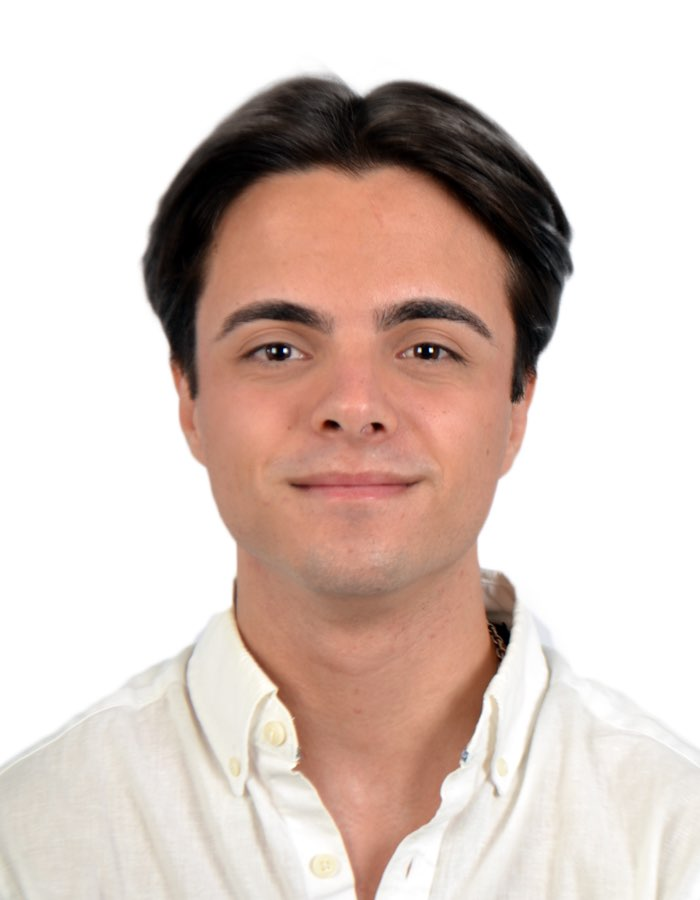
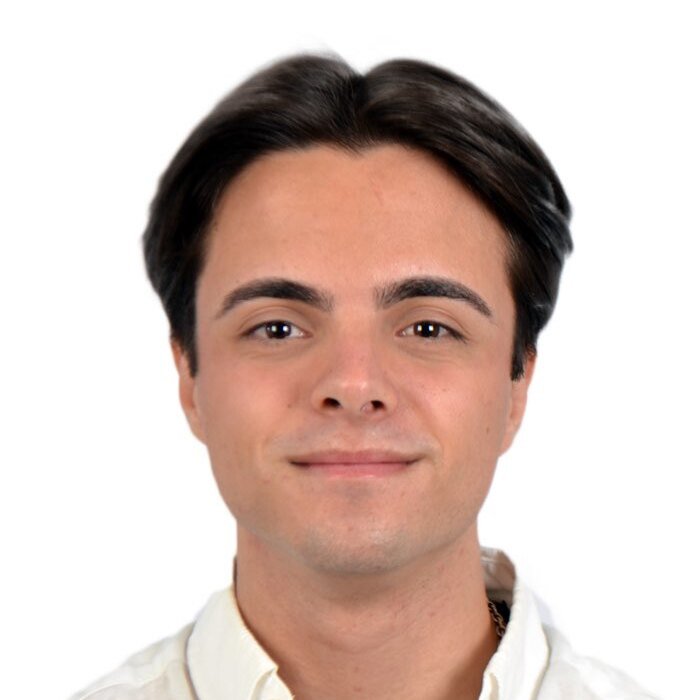
edits

diff --git a/index.html b/index.html
@@ -39,14 +39,14 @@
 					<section class="feature left">
 						<a href="weather.html" class="image"><img src="images/rain-drops1.webp" alt="" /></a>
 						<div class="content">
-							<h3>Weather Data Analysis</h3>
+							<h3><a href="weather.html">Weather Data Analysis</a></h3>
 							<p>A deeper dive into the decisions we made when processing the weather data.</p>
 						</div>
 					</section>
 					<section class="feature right">
 						<a href="movies.html" class="image"><img src="images/et.jpeg" alt="" /></a>
 						<div class="content">
-							<h3>Movie Data Analysis</h3>
+							<h3><a href="movies.html">Movie Data Analysis</a></h3>
 							<p>An explanation for how we chose to process and analyze the movie data.</p>
 						</div>
 					</section>
@@ -78,7 +78,7 @@
 							<div class="column-image">
 								<div class="team">
 									<div class="team-image">
-										<img src="images/square.png" alt="Team Image">
+										<img src="team_photos/alex_photo.jpeg" alt="Team Image">
 									</div>
 									<div class="team-content">
 										<h4>Alex Richaume</h4>
@@ -88,7 +88,7 @@
 							<div class="column-image">
 								<div class="team">
 									<div class="team-image">
-										<img src="images/square.png" alt="Team Image">
+										<img src="team_photos/luis_photo.jpeg" alt="Team Image">
 									</div>
 									<div class="team-content">
 										<h4>Luís D'Andrade</h4>
@@ -118,7 +118,7 @@
 							<div class="column-image">
 								<div class="team">
 									<div class="team-image">
-										<img src="images/square.png" alt="Team Image">
+										<img src="team_photos/katherine_photo.jpg" alt="Team Image">
 									</div>
 									<div class="team-content">
 										<h4>Katherine Lu</h4>

diff --git a/movies.html b/movies.html
@@ -68,8 +68,8 @@
 						</p>
 						<p>Just for fun, here's a word cloud to show which genres are the most popular choices for movie releases between 1992 and 2012!</p>
 						<img class="smaller-img" src="plots/genre_wordcloud.png" alt="Genre Wordcloud">
-						<p>It's no surprise that drama, comedy, and action are all among the top genres released. Just think about the last movie
-						   you recall hearing about – there's a high chance it falls into at least one of those three categories.
+						<p>It's no surprise that drama, comedy, romance, and action are all among the top genres released. Just think about the last movie
+						   you recall hearing about – there's a high chance it falls into at least one of those four categories.
 						</p>
 						<p>If we take another look at the word cloud, we can notice one other issue: there are too many genres. To help mitigate this
 						   issue, we aggregated similar genres under the same umbrella as follows:
@@ -142,7 +142,9 @@
 						</section>
 						<iframe class="responsive-plot" src="plots/genre_distribution.html" frameborder="0"></iframe>
 						<p>One interesting aspect of the distribution of genres is the steep drop between the first
-						   two most popular genres, drama and comedy, and the rest of the genres that are released. 
+						   two most popular genres, drama and comedy, and the rest of the genres that are released. You
+						   can try and see for yourself if this is true – do you watch more drama or comedy than any other
+						   genre in the movie theaters?
 						</p>
 					</section>
 					<h2>
